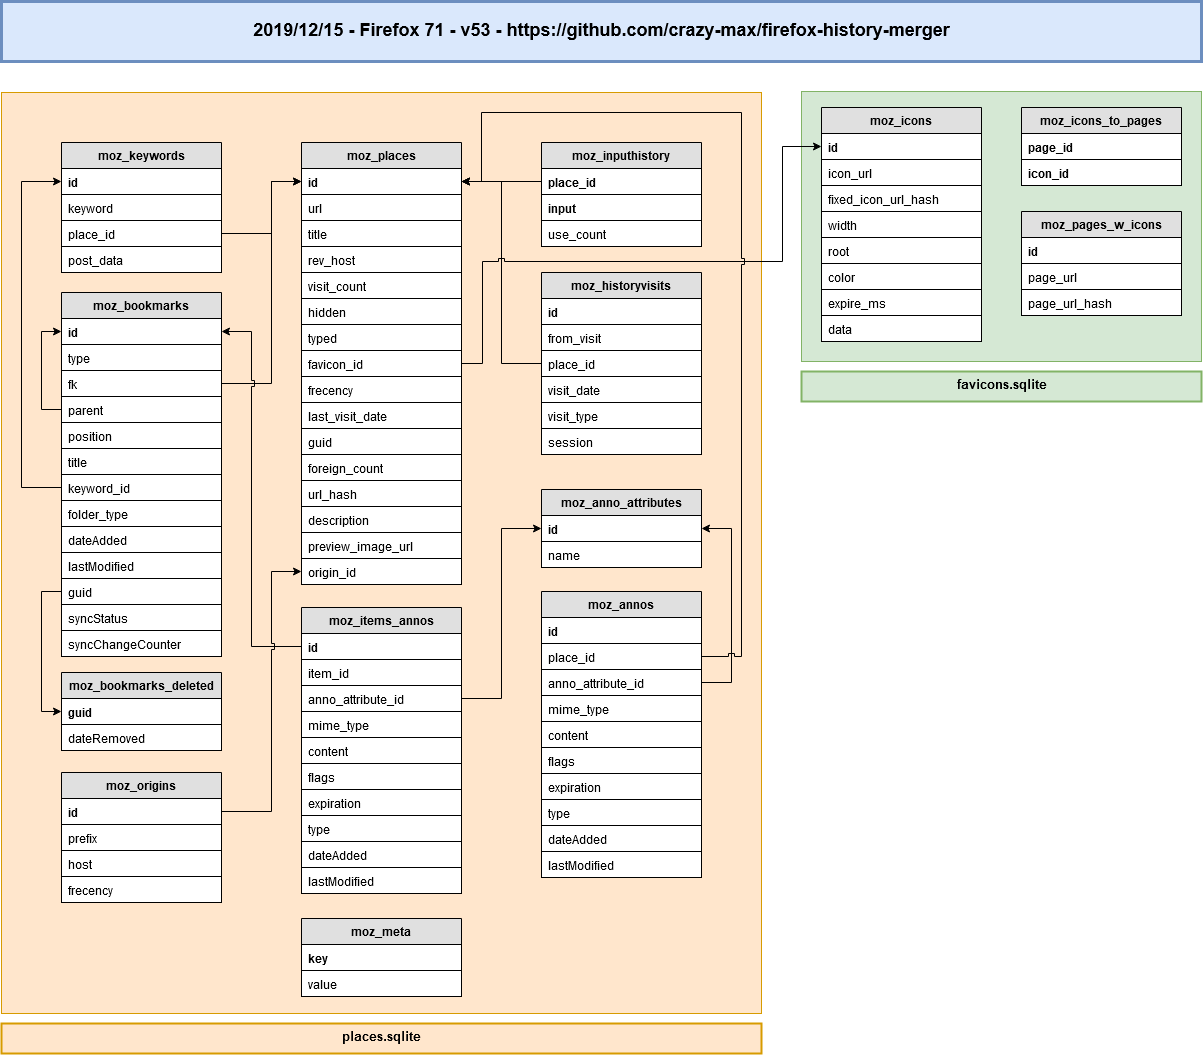
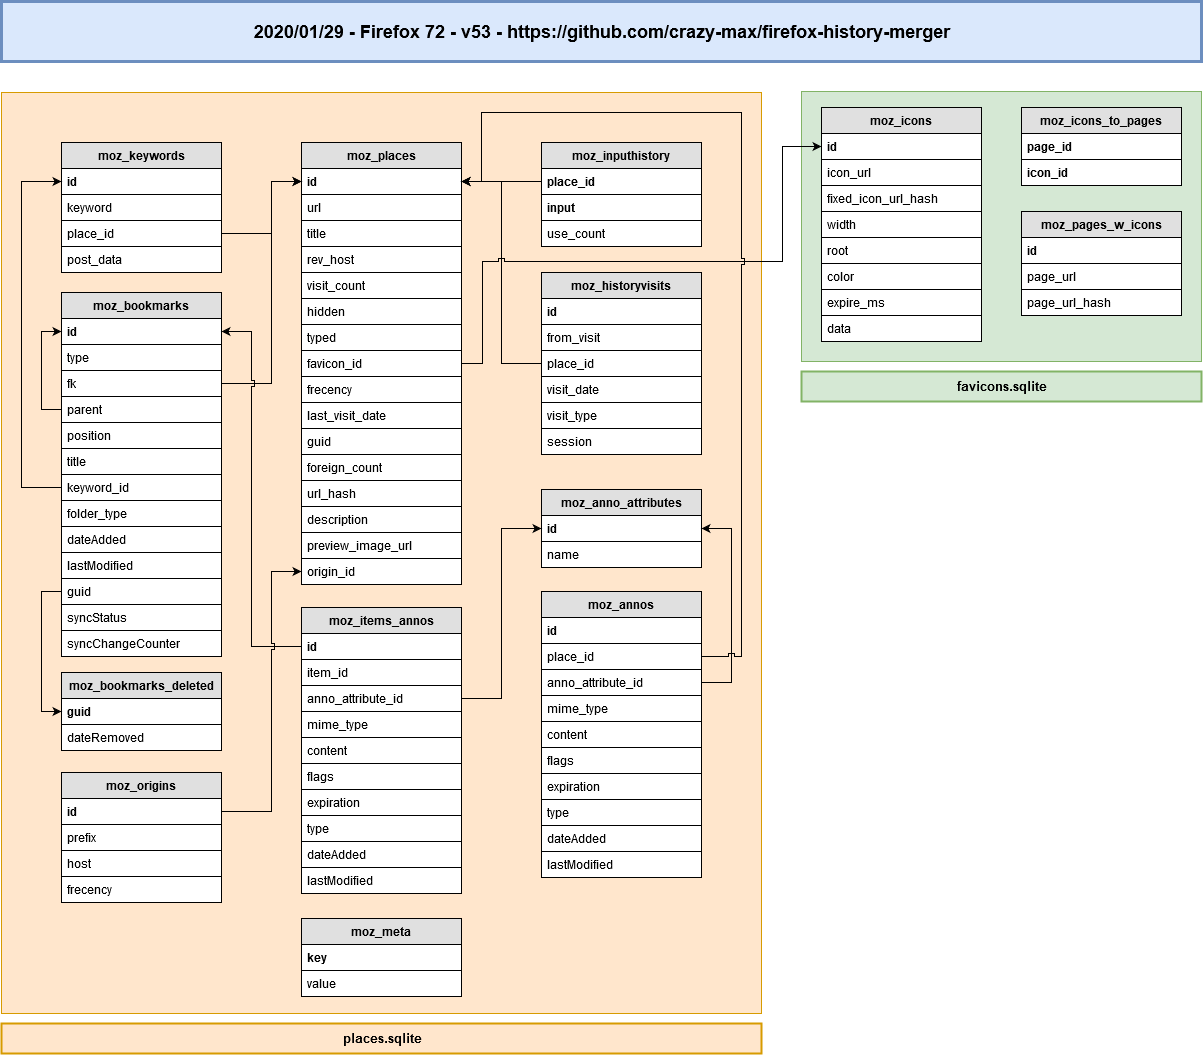
Same schema (v53) for Firefox 72

diff --git a/internal/db/places/client.go b/internal/db/places/client.go
@@ -183,5 +183,5 @@ func (c *Client) firefoxVersion() int {
 	if c.DbVersion < 53 {
 		return 62
 	}
-	return 71
+	return 72
 }

diff --git a/README.md b/README.md
@@ -12,7 +12,7 @@
 
 ## About
 
-**firefox-history-merger** is a CLI application written in [Go](https://golang.org/) to merge history of 🦊 [Firefox](https://www.mozilla.org/en-US/firefox/) and repair missing favicons with ease.
+**firefox-history-merger** is a CLI application written in [Go](https://golang.org/) to merge history of [Firefox](https://www.mozilla.org/en-US/firefox/) and repair missing favicons with ease.
 
 ![](.res/screenshot.png)
 > Screenshot of firefox-history-merger
@@ -28,7 +28,7 @@
 
 ## Requirements
 
-Schema version that can be used is **v39 (Firefox 57)** to **v53 (Firefox 71)**. Check if your `places.sqlite` is compatible with `info` command.
+Schema version that can be used is **v39 (Firefox 57)** to **v53 (Firefox 72)**. Check if your `places.sqlite` is compatible with `info` command.
 
 If your database is not compatible, you can copy your `places.sqlite` in a compatible Firefox [profile folder](https://support.mozilla.org/en-US/kb/profiles-where-firefox-stores-user-data), then launch/close Firefox and your `places.sqlite` should now be compatible. 
 

diff --git a/CHANGELOG.md b/CHANGELOG.md
@@ -1,5 +1,9 @@
 # Changelog
 
+## 2.5.0 (2020/01/29)
+
+* Same schema (v53) for Firefox 72
+
 ## 2.4.0 (2019/12/15)
 
 * Same schema (v53) for Firefox 71
